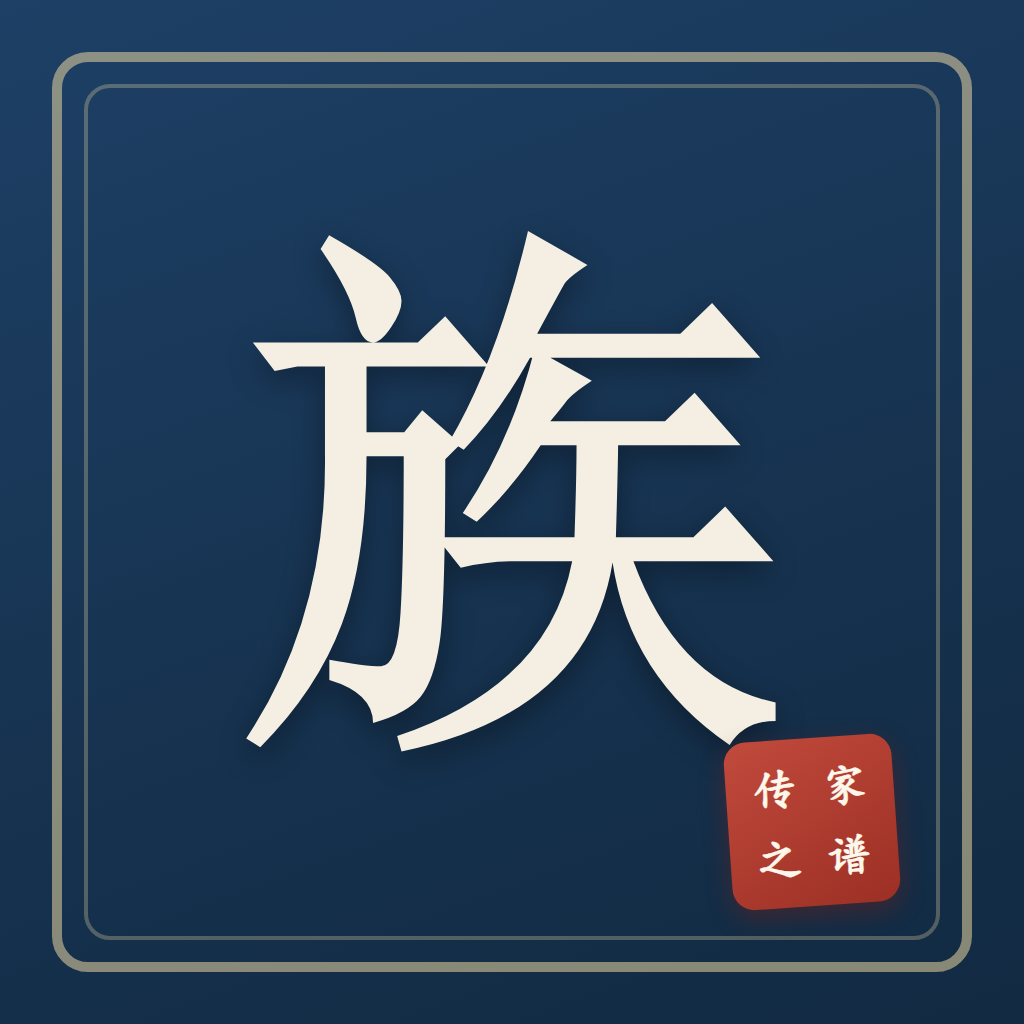
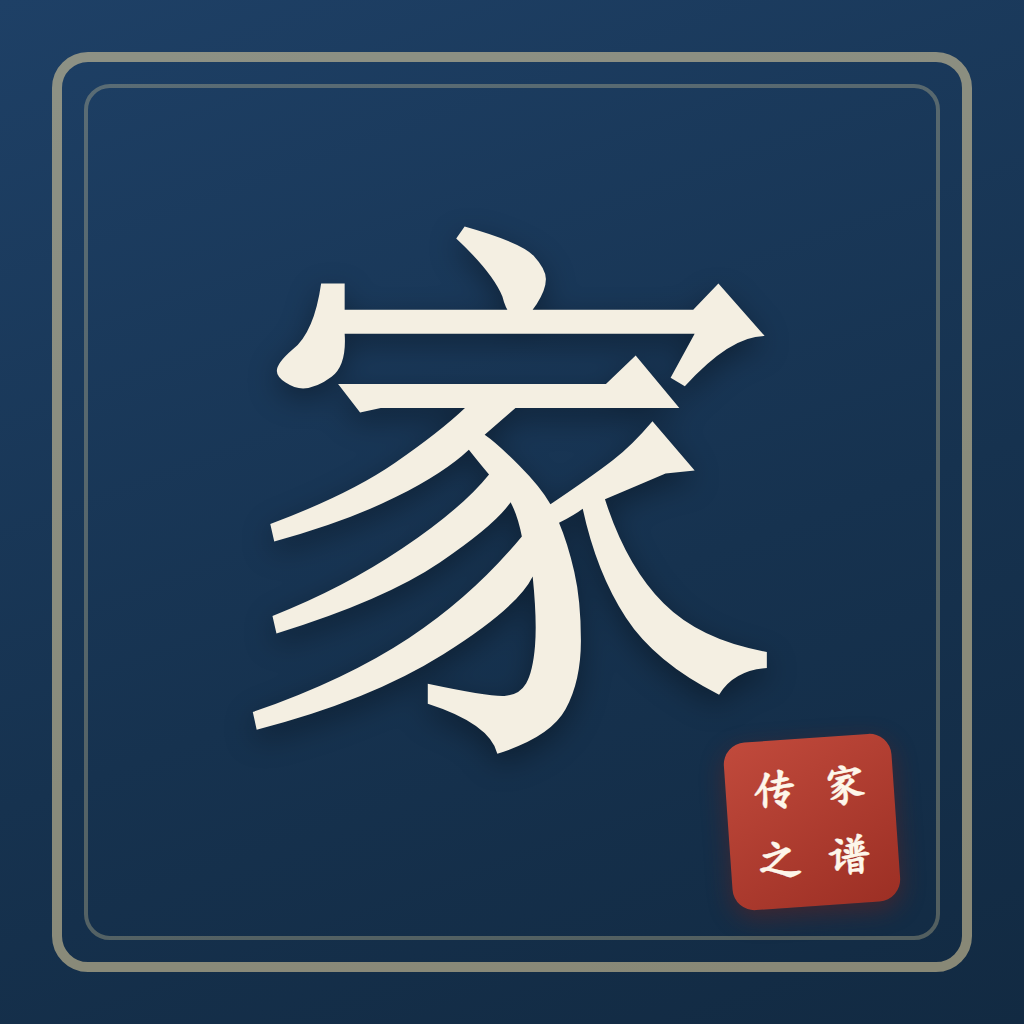
小工具图标：族 → 家

Changed region(s): [[0.25, 0.2188, 0.7812, 0.75]]

diff --git a/docs/_icon.html b/docs/_icon.html
@@ -22,7 +22,7 @@
   <div class="icon">
     <div class="frame-outer"></div>
     <div class="frame-inner"></div>
-    <div class="zi">族</div>
+    <div class="zi">家</div>
     <div class="seal"><span>传</span><span>家</span><span>之</span><span>谱</span></div>
   </div>
 </body>
